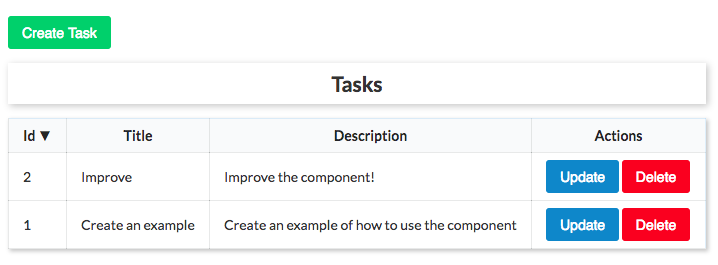
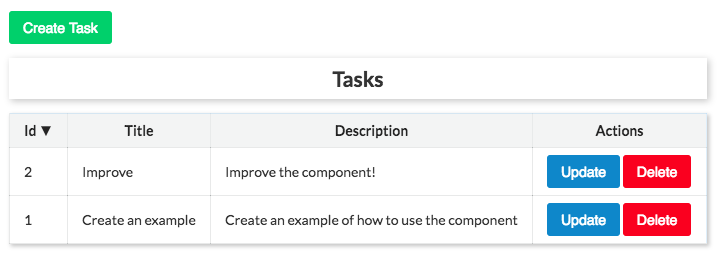
Updating

diff --git a/src/index.css b/src/index.css
@@ -152,7 +152,7 @@
 .crud-table__row {}
 .crud-table__header-cell {
   cursor: pointer;
-  background-color: #f9fafb;
+  background: rgba(153, 158, 162, 0.05);
   padding: .5rem 1rem;
   color: rgba(0, 0, 0, 0.85);
   border-left: 1px solid rgba(34, 36, 38, .1);
@@ -169,7 +169,7 @@
   background-color: white;
   padding: .5rem 1rem;
   border-left: 1px solid rgba(34, 36, 38, .1);
-  border-bottom: 1px solid rgba(34, 36, 38, .1);
+  border-bottom: 1px solid rgba(4, 21, 37, 0.1);
 }
 
 .crud-table__cell-label {
@@ -314,7 +314,7 @@
     border-bottom: 1px dashed #e6e6e6;
     padding: .5rem;
     margin-bottom: .5rem;
-    background: #fafafa;
+    background: rgba(184, 187, 189, 0.05);
   }
 
   .crud-table-query-builder .crud-button--add{
